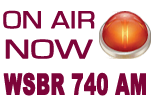
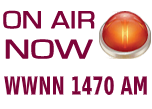
Updating

Changed region(s): [[0.4474, 0.6606, 0.9737, 0.8807], [0.0, 0.6606, 0.4474, 0.8807]]

diff --git a/style.css b/style.css
@@ -1,5 +1,6 @@
 @import url('https://fonts.googleapis.com/css?family=Playfair+Display');
 @import url(http://fonts.googleapis.com/css?family=Varela+Round);
+@import url('https://fonts.googleapis.com/css?family=Lora&display=swap');
 
 body {
 	background:url(images/bg.jpg) repeat #fff;
@@ -13,7 +14,14 @@ p{
 	text-align:justify;
 	line-height:18px;
 	padding:0px 0 5px 0;
-	font-family: 'Varela Round', serif;
+	font-family: 'Lora', serif;
+}
+
+li{
+	text-align:justify;
+	line-height:18px;
+	padding:0px 0 5px 0;
+	font-family: 'Lora', serif;
 }
 
 h1 {
@@ -74,6 +82,13 @@ padding:15px 23px 0 0;
     cursor: pointer;
 	border-radius: 5px;
 }
+
+.helper {
+    display: inline-block;
+    height: 100%;
+    vertical-align: middle;
+}
+
 audio { 
 	width: 300px; 
 	color: #7E0A37;

diff --git a/about.php b/about.php
@@ -26,12 +26,12 @@ $m=date("i");
 
 
 if( ($d=="Sun") && ($h==9) && ($m>29) )
-	echo '<img src="images/onair.png" alt="" title="" border="0" />';
+	echo '<img src="images/onair.png" alt="" title="" border="0"/>';
 	
 elseif( ($d=="Sun") && ($h==10) && ($m>=0) && (m< 59) )
-	echo '<img src="images/onair.png" alt="" title="" border="0" />';
+	echo '<img src="images/onair.png" alt="" title="" border="0"/>';
 else
-	echo '<img src="images/offair.png" alt="" title="" border="0" />';
+	echo '<img src="images/offair.png" alt="" title="" border="0"/>';
 
 
 ?>        
@@ -57,8 +57,8 @@ else
     
   <div class="left_content">
     <div class="title">THE FORMAT</div>
-	<p><span class="title"><center><b>“TODAY’S JEWISH MUSIC…WITH A TASTE OF THE PAST&#8480&quot;</b></center>
-    &quot;Shalom South Florida&quot; is dedicated to providing its listeners with the highest quality
+	<p><span class="title"><center><b>“TODAY’S JEWISH MUSIC…WITH A TASTE OF THE PAST&#8480&quot;</b></center></p>
+    <p>&quot;Shalom South Florida&quot; is dedicated to providing its listeners with the highest quality
 Jewish radio show. We are committed to featuring the latest hits by the current, most
 popular Jewish music artists, while staying true to the roots of Jewish music by
 providing the classics. The program features Chassidic artists like YAAKOV SHWEKEY,
@@ -76,7 +76,7 @@ news and otherwise overlooked stories are shared with the audience. Events takin
 
 place in the South Florida Jewish community are announced (see <a href = "./contact.php">Contact Us</a> to have
 your announcement included).</p>
-    <div class="title">THE STATION - <img src="images/WWNN.png" height="20px"</div>
+    <div class="title">THE STATION</br><img src="images/WWNN.png" height="100px"></div>
     <p>WWNN is South Florida’s “Health and Wealth Network.”  WWNN has listeners locally and nationally - through its website (<a href="https://wwnnradio.com/">https://wwnnradio.com/</a>). The location and power of their 50,000 watt AM facility enable Shalom South Florida to reach listeners throughout the entire South Florida Jewish marketplace in Miami-Dade, Broward, and Palm Beach Counties.The major cities in the coverage area include: Miami Beach, North Miami Beach, Hallandale, Hollywood, Sunrise, Coral Springs, Deerfield Beach, Boca Raton, Delray Beach, Boynton Beach and Wellington. WWNN’s transmitter facility is state of the art technology offering premium AM sound reproduction with the greatest possible reliability. Check out our coverage page to see a map showing Shalom South Florida’s reach!
 </p>
 
@@ -107,14 +107,14 @@ communities in the country.<br />
         <a href="http://wwnnradio.com" target="_new"><img src="images/listen_live.gif" alt="" title="" class="listen_live" border="0" /></a><!--Start of Calendar Event--><!--End of Calendar Event-->
     
 		<div class="title">Ways to Listen to Shalom South Florida:</div>
-      Every Sunday from 9:30-10:30 AM Eastern Time, or listen to some of our recent podcasts on the <a href="../archive.php">podcasts page</a>.
+      </p>Every Sunday from 9:30-10:30 AM Eastern Time, or listen to some of our recent podcasts on the <a href="../archive.php">podcasts page</a>.
 	  
 	  <ol>
 		<li>In South Florida: WWNN 1470 AM</li>
 		<li>N. Broward &amp; South Palm Beach – 95.3, 96.9, &amp; 103.9 FM (Check the <a href="../coverage.php">Coverage Map</a></li>
 		<li>Worldwide: <a href="http://www.WWNNradio.com" target="_blank">www.WWNNradio.com</a></li>
 		<li>Free Apps: iradionow; iheartradio, tuneinradio (Call Letters: WWNN)</li>
-	</ol>
+	</ol></p>
     
   <img src="images/shalomlogo.png" alt="shalom_logo" width="150" height="222" />
     <div id="menu2">
@@ -130,7 +130,7 @@ communities in the country.<br />
      <div id="footer">
     	<div class="footer_links">                      
         <a href="index.php">home</a>
-        <a href="http://wsbrradio.com" target="_new">listen live</a><a href="contact.php">contact us</a><a href="http://validator.w3.org/check?uri=referer"><img
+        <a href="http://WWNNradio.com" target="_new">listen live</a><a href="contact.php">contact us</a><a href="http://validator.w3.org/check?uri=referer"><img
       src="http://www.w3.org/Icons/valid-xhtml10" alt="Valid XHTML 1.0 Transitional" width="61" height="18" /></a><a href="#"> </a>
         
     <p>&nbsp;</p></div>

diff --git a/contact.php b/contact.php
@@ -26,12 +26,12 @@ $m=date("i");
 
 
 if( ($d=="Sun") && ($h==9) && ($m>29) )
-	echo '<img src="images/onair.png" alt="" title="" border="0" />';
+	echo '<img src="images/onair.png" alt="" title="" border="0"/>';
 	
 elseif( ($d=="Sun") && ($h==10) && ($m>=0) && (m< 59) )
-	echo '<img src="images/onair.png" alt="" title="" border="0" />';
+	echo '<img src="images/onair.png" alt="" title="" border="0"/>';
 else
-	echo '<img src="images/offair.png" alt="" title="" border="0" />';
+	echo '<img src="images/offair.png" alt="" title="" border="0"/>';
 
 
 ?>        
@@ -61,17 +61,22 @@ else
     Have a new album out? Send it to us for possible airplay.</p>
 	<p>Attn: Roni<br />
 	Shalom South Florida<br />
-	c/o WSBR-AM<br />
+	c/o WWNN-AM<br />
 	1650 South Dixie Highway<br />
     Fifth Floor<br />
     Boca Raton, FL 33432</p>
 	<p>Free community event coming up? Get us a Press Release at least two weeks in advance:</p>
     <p>Attn: Roni<br />
 Shalom South Florida<br />
-c/o WSBR-AM<br />
+c/o WWNN-AM<br />
 1650 South Dixie Highway<br />
 Fifth Floor<br />
 Boca Raton, FL 33432</p>
+
+<p>Get your message to South Florida's large Jewish community:<br /> 
+          Contact us at (561) 750-0888 or send us an e-mail to <a href="mailto:roni@shalomsouthflorida.com">roni@shalomsouthflorida.com</a>.</p>
+      <p>Want to hear a song? Make a request or dedication.  Give us your comments and suggestions:<br />
+        Call our office at (561) 750-0888, or send  an e-mail to <a href="mailto:roni@shalomsouthflorida.com">roni@shalomsouthflorida.com</a>.</p>
     <div id="menu2">
       <div class="title">Connect with Us!</div>
       <center>
@@ -87,18 +92,15 @@ Boca Raton, FL 33432</p>
         <a href="http://wwnnradio.com" target="_new"><img src="images/listen_live.gif" alt="" title="" class="listen_live" border="0" /></a><!--Start of Calendar Event--><!--End of Calendar Event-->
     
 		<div class="title">Ways to Listen to Shalom South Florida:</div>
-      Every Sunday from 9:30-10:30 AM Eastern Time, or listen to some of our recent podcasts on the <a href="../archive.php">podcasts page</a>.
+      <p>Every Sunday from 9:30-10:30 AM Eastern Time, or listen to some of our recent podcasts on the <a href="../archive.php">podcasts page</a>.
 	  
 	  <ol>
 		<li>In South Florida: WWNN 1470 AM</li>
 		<li>N. Broward &amp; South Palm Beach – 95.3, 96.9, &amp; 103.9 FM (Check the <a href="../coverage.php">Coverage Map</a></li>
 		<li>Worldwide: <a href="http://www.WWNNradio.com" target="_blank">www.WWNNradio.com</a></li>
 		<li>Free Apps: iradionow; iheartradio, tuneinradio (Call Letters: WWNN)</li>
-	</ol>
-	<p>Get your message to South Florida's large Jewish community:<br /> 
-          Contact us at (561) 750-0888 or send us an e-mail to <a href="mailto:roni@shalomsouthflorida.com">roni@shalomsouthflorida.com</a>.</p>
-      <p>Want to hear a song? Make a request or dedication.  Give us your comments and suggestions:<br />
-        Call our office at (561) 750-0888, or send  an e-mail to <a href="mailto:roni@shalomsouthflorida.com">roni@shalomsouthflorida.com</a>.</p>
+	</ol></p>
+	
         <p><center><img src="images/shalomlogo.png" alt="shalom_logo" width="150" height="222" /></center>&nbsp;</p>
         
         <!--Start of Calendar Event--><!--End of Calendar Event-->
@@ -112,7 +114,7 @@ Boca Raton, FL 33432</p>
 <div id="footer">
     	<div class="footer_links">                      
         <a href="index.php">home</a>
-        <a href="http://wsbrradio.com" target="_new">listen live</a><a href="contact.php">contact us</a><a href="http://validator.w3.org/check?uri=referer"><img
+        <a href="http://WWNNradio.com" target="_new">listen live</a><a href="contact.php">contact us</a><a href="http://validator.w3.org/check?uri=referer"><img
       src="http://www.w3.org/Icons/valid-xhtml10" alt="Valid XHTML 1.0 Transitional" width="61" height="18" /></a><a href="#"> </a>
         
     <p>&nbsp;</p></div>

diff --git a/coverage.php b/coverage.php
@@ -27,12 +27,12 @@ $m=date("i");
 
 
 if( ($d=="Sun") && ($h==9) && ($m>29) )
-	echo '<img src="images/onair.png" alt="" title="" border="0" />';
+	echo '<img src="images/onair.png" alt="" title="" border="0"/>';
 	
 elseif( ($d=="Sun") && ($h==10) && ($m>=0) && (m< 59) )
-	echo '<img src="images/onair.png" alt="" title="" border="0" />';
+	echo '<img src="images/onair.png" alt="" title="" border="0"/>';
 else
-	echo '<img src="images/offair.png" alt="" title="" border="0" />';
+	echo '<img src="images/offair.png" alt="" title="" border="0"/>';
 
 
 ?>        
@@ -57,9 +57,9 @@ else
     </div>
     
   <div class="left_content">
-    <div class="title">Coverage Map of WSBR 740 AM</div>
+    <div class="title">Coverage Map of WWNN 740 AM</div>
 	<p><img src="images/coverage_map.gif" width="465" height="465" alt="coverage_map" /></p>
-	<p>WSBR broadcasts from Boca Raton, FL reaching from Miami Beach to West Palm Beach.</p>
+	<p>WWNN broadcasts from Boca Raton, FL reaching from Miami Beach to West Palm Beach.</p>
   </div>
     
     <div class="right_content">
@@ -67,14 +67,14 @@ else
         <a href="http://wwnnradio.com" target="_new"><img src="images/listen_live.gif" alt="" title="" class="listen_live" border="0" /></a><!--Start of Calendar Event--><!--End of Calendar Event-->
     
 		<div class="title">Ways to Listen to Shalom South Florida:</div>
-      Every Sunday from 9:30-10:30 AM Eastern Time, or listen to some of our recent podcasts on the <a href="../archive.php">podcasts page</a>.
+      <p>Every Sunday from 9:30-10:30 AM Eastern Time, or listen to some of our recent podcasts on the <a href="../archive.php">podcasts page</a>.
 	  
 	  <ol>
 		<li>In South Florida: WWNN 1470 AM</li>
 		<li>N. Broward &amp; South Palm Beach – 95.3, 96.9, &amp; 103.9 FM (Check the <a href="../coverage.php">Coverage Map</a></li>
 		<li>Worldwide: <a href="http://www.WWNNradio.com" target="_blank">www.WWNNradio.com</a></li>
 		<li>Free Apps: iradionow; iheartradio, tuneinradio (Call Letters: WWNN)</li>
-	</ol>
+	</ol></p>
     
     
   <center><img src="images/shalomlogo.png" alt="shalom_logo" width="150" height="222" /></center>
@@ -88,7 +88,7 @@ else
 <div id="footer">
     	<div class="footer_links">                      
         <a href="index.php">home</a>
-        <a href="http://wsbrradio.com" target="_new">listen live</a><a href="contact.php">contact us</a><a href="http://validator.w3.org/check?uri=referer"><img
+        <a href="http://WWNNradio.com" target="_new">listen live</a><a href="contact.php">contact us</a><a href="http://validator.w3.org/check?uri=referer"><img
       src="http://www.w3.org/Icons/valid-xhtml10" alt="Valid XHTML 1.0 Transitional" width="61" height="18" /></a><a href="#"> </a>
         
     <p>&nbsp;</p></div>

diff --git a/archive.php b/archive.php
@@ -35,12 +35,12 @@ $m=date("i");
 
 
 if( ($d=="Sun") && ($h==9) && ($m>29) )
-	echo '<img src="images/onair.png" alt="onair" title="" border="0" />';
+	echo '<img src="images/onair.png" alt="onair" title="" border="0"/>';
 	
 elseif( ($d=="Sun") && ($h==10) && ($m<30) )
-	echo '<img src="images/onair.png" alt="onair" title="" border="0" />';
+	echo '<img src="images/onair.png" alt="onair" title="" border="0"/>';
 else
-	echo '<img src="images/offair.png" alt="offair" title="" border="0" />';
+	echo '<img src="images/offair.png" alt="offair" title="" border="0"/>';
 
 
 ?>        
@@ -1101,7 +1101,7 @@ else
                <input class="button" type="submit" value="Download" />
              </a></td>
            </tr>		   
--->
+
 <td>September 1st, 2019<br />
                9:30-10:30</td>
             <td>
@@ -1196,7 +1196,7 @@ else
                <input class="button" type="submit" value="Download" />
              </a></td>
            </tr>
-		   
+-->		   
 <td>October 6th, 2019<br />
                9:30-10:30</td>
             <td>
@@ -1360,14 +1360,14 @@ else
         <a href="http://wwnnradio.com" target="_new"><img src="images/listen_live.gif" alt="" title="" class="listen_live" border="0" /></a><!--Start of Calendar Event--><!--End of Calendar Event-->
     
 		<div class="title">Ways to Listen to Shalom South Florida:</div>
-      Every Sunday from 9:30-10:30 AM Eastern Time, or listen to some of our recent podcasts on the <a href="../archive.php">podcasts page</a>.
+      <p>Every Sunday from 9:30-10:30 AM Eastern Time, or listen to some of our recent podcasts on the <a href="../archive.php">podcasts page</a>.
 	  
 	  <ol>
 		<li>In South Florida: WWNN 1470 AM</li>
 		<li>N. Broward &amp; South Palm Beach – 95.3, 96.9, &amp; 103.9 FM (Check the <a href="../coverage.php">Coverage Map</a></li>
 		<li>Worldwide: <a href="http://www.WWNNradio.com" target="_blank">www.WWNNradio.com</a></li>
 		<li>Free Apps: iradionow; iheartradio, tuneinradio (Call Letters: WWNN)</li>
-	</ol>
+	</ol></p>
 
       <div id="menu2">
         <div class="title">Connect with Us!</div>
@@ -1386,7 +1386,7 @@ else
      <div id="footer">
     	<div class="footer_links">                      
         <a href="index.php">home</a>
-        <a href="http://wsbrradio.com" target="_new">listen live</a><a href="contact.php">contact us</a><a href="http://validator.w3.org/check?uri=referer"></a>
+        <a href="http://WWNNradio.com" target="_new">listen live</a><a href="contact.php">contact us</a><a href="http://validator.w3.org/check?uri=referer"></a>
        <p>&nbsp;</p></div>
         
      	<div class="copyright">&copy;<?php $y=date(Y); echo "$y"; ?> Shalom South Florida, Inc.</div>    

diff --git a/recommended.php b/recommended.php
@@ -27,12 +27,12 @@ $m=date("i");
 
 
 if( ($d=="Sun") && ($h==9) && ($m>29) )
-	echo '<img src="images/onair.png" alt="onair" title="" border="0" />';
+	echo '<img src="images/onair.png" alt="onair" title="" border="0" height="152"/>';
 	
 elseif( ($d=="Sun") && ($h==10) && ($m<30) )
-	echo '<img src="images/onair.png" alt="onair" title="" border="0" />';
+	echo '<img src="images/onair.png" alt="onair" title="" border="0" height="152"/>';
 else
-	echo '<img src="images/offair.png" alt="offair" title="" border="0" />';
+	echo '<img src="images/offair.png" alt="offair" title="" border="0" height="152"/>';
 
 
 ?>        
@@ -94,7 +94,7 @@ else
 		</td>
 		<td></td>
 		<td>
-			<a href="http://wwnnradio.com/" target="_new"><img src="images/WWNN.png" width="75" height="75" alt="jukebox" /></a></a>
+			<a href="http://wwnnradio.com/" target="_new"><img src="images/WWNN.png" width="75" alt="jukebox" /></a></a>
 		</td>
 		<td valign="center">
 			<a href="http://wwnnradio.com/" target="_new"><img src="images/button_wwnn.png" width="250" height="38" alt="jukebox" /></a></a>
@@ -129,7 +129,7 @@ else
 		   </tr>
 
 <td> <center> <p><a href="http://www.israelnationalnews.com/" target="_new"><img src="images/arutz_sheva.png" width="200" height="50" alt="arutz_sheva" /></a></p> </center> </td>
-<td> <center> <p><a href="http://wsbrradio.com/" target="_new"><img src="images/wsbr.png" width="250" height="100" alt="wsbr" /></a></p> </center> </td>
+<td> <center> <p><a href="http://WWNNradio.com/" target="_new"><img src="images/WWNN.png" width="250" height="100" alt="WWNN" /></a></p> </center> </td>
 <td> <center> <p><a href="http://www.jnf.org/" target="_new"><img src="images/jnf-new.png" width="200" height="150" alt="jnf" /></a></p> </center> </td>
 			</tr>
 <td></td>
@@ -154,7 +154,7 @@ else
      <div id="footer">
     	<div class="footer_links">                      
         <a href="index.php">home</a>
-        <a href="http://wsbrradio.com" target="_new">listen live</a><a href="contact.php">contact us</a><a href="http://validator.w3.org/check?uri=referer"><img
+        <a href="http://WWNNradio.com" target="_new">listen live</a><a href="contact.php">contact us</a><a href="http://validator.w3.org/check?uri=referer"><img
       src="http://www.w3.org/Icons/valid-xhtml10" alt="Valid XHTML 1.0 Transitional" width="61" height="18" /></a><a href="#"> </a>
         
     <p>&nbsp;</p></div>

diff --git a/index.php b/index.php
@@ -38,7 +38,7 @@ $m=date("i");
 if( ($d=="Sun") && ($h==9) && ($m>29) )
 	echo '<img src="images/onair.png" alt="onair" title="" border="0" />';
 	
-elseif( ($d=="Sun") && ($h==10) && ($m<59) )
+elseif( ($d=="Sun") && ($h==10) && ($m<29) )
 	echo '<img src="images/onair.png" alt="onair" title="" border="0" />';
 else
 	echo '<img src="images/offair.png" alt="offair" title="" border="0" />';
@@ -93,14 +93,14 @@ Mass Communication.</p>
         <a href="http://wwnnradio.com" target="_new"><img src="images/listen_live.gif" alt="" title="" class="listen_live" border="0" /></a><!--Start of Calendar Event--><!--End of Calendar Event-->
     
 		<div class="title">Ways to Listen to Shalom South Florida:</div>
-      Every Sunday from 9:30-10:30 AM Eastern Time, or listen to some of our recent podcasts on the <a href="../archive.php">podcasts page</a>.
+      <p>Every Sunday from 9:30-10:30 AM Eastern Time, or listen to some of our recent podcasts on the <a href="../archive.php">podcasts page</a>.
 	  
 	  <ol>
 		<li>In South Florida: WWNN 1470 AM</li>
 		<li>N. Broward &amp; South Palm Beach – 95.3, 96.9, &amp; 103.9 FM (Check the <a href="../coverage.php">Coverage Map</a></li>
 		<li>Worldwide: <a href="http://www.WWNNradio.com" target="_blank">www.WWNNradio.com</a></li>
 		<li>Free Apps: iradionow; iheartradio, tuneinradio (Call Letters: WWNN)</li>
-	</ol>
+	</ol></p>
 		
         <center><img src="images/shalomlogo.png" alt="shalom_logo" width="150" height="222" /></center>
 
@@ -124,7 +124,7 @@ Mass Communication.</p>
      <div id="footer">
     	<div class="footer_links">                      
         <a href="index.php">home</a>
-        <a href="http://wsbrradio.com" target="_new">listen live</a><a href="contact.php">contact us</a><a href="http://validator.w3.org/check?uri=referer"><img
+        <a href="http://WWNNradio.com" target="_new">listen live</a><a href="contact.php">contact us</a><a href="http://validator.w3.org/check?uri=referer"><img
       src="http://www.w3.org/Icons/valid-xhtml10" alt="Valid XHTML 1.0 Transitional" width="61" height="18" /></a><a href="#"> </a>
         
        <p>&nbsp;</p></div>

diff --git a/sponsors.php b/sponsors.php
@@ -27,12 +27,12 @@ $m=date("i");
 
 
 if( ($d=="Sun") && ($h==9) && ($m>29) )
-	echo '<img src="images/onair.png" alt="onair" title="" border="0" />';
+	echo '<img src="images/onair.png" alt="onair" title="" border="0" height="152"/>';
 	
 elseif( ($d=="Sun") && ($h==10) && ($m<30) )
-	echo '<img src="images/onair.png" alt="onair" title="" border="0" />';
+	echo '<img src="images/onair.png" alt="onair" title="" border="0" height="152"/>';
 else
-	echo '<img src="images/offair.png" alt="offair" title="" border="0" />';
+	echo '<img src="images/offair.png" alt="offair" title="" border="0" height="152"/>';
 
 
 ?>        
@@ -119,7 +119,7 @@ else
      <div id="footer">
     	<div class="footer_links">                      
         <a href="index.php">home</a>
-        <a href="http://wsbrradio.com" target="_new">listen live</a><a href="contact.php">contact us</a><a href="http://validator.w3.org/check?uri=referer"><img
+        <a href="http://WWNNradio.com" target="_new">listen live</a><a href="contact.php">contact us</a><a href="http://validator.w3.org/check?uri=referer"><img
       src="http://www.w3.org/Icons/valid-xhtml10" alt="Valid XHTML 1.0 Transitional" width="61" height="18" /></a><a href="#"> </a>
         
     <p>&nbsp;</p></div>
